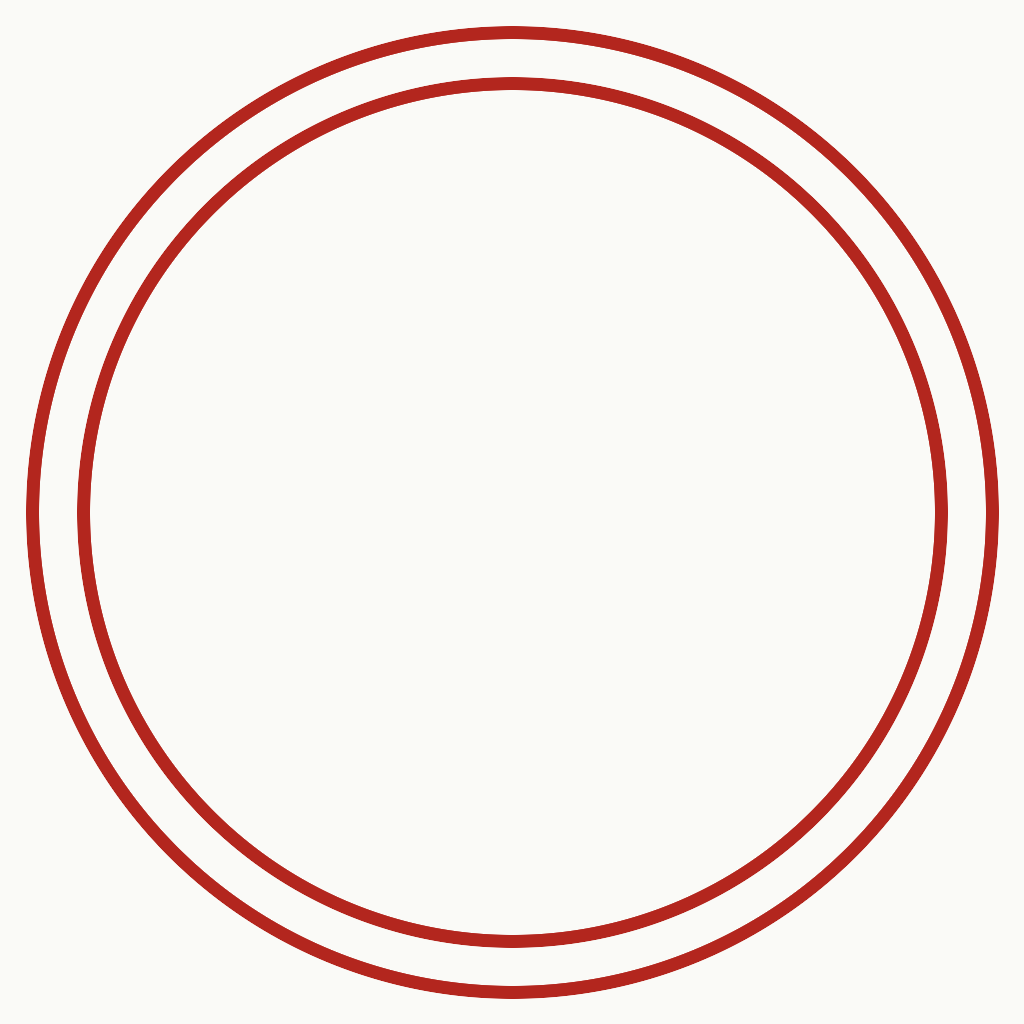
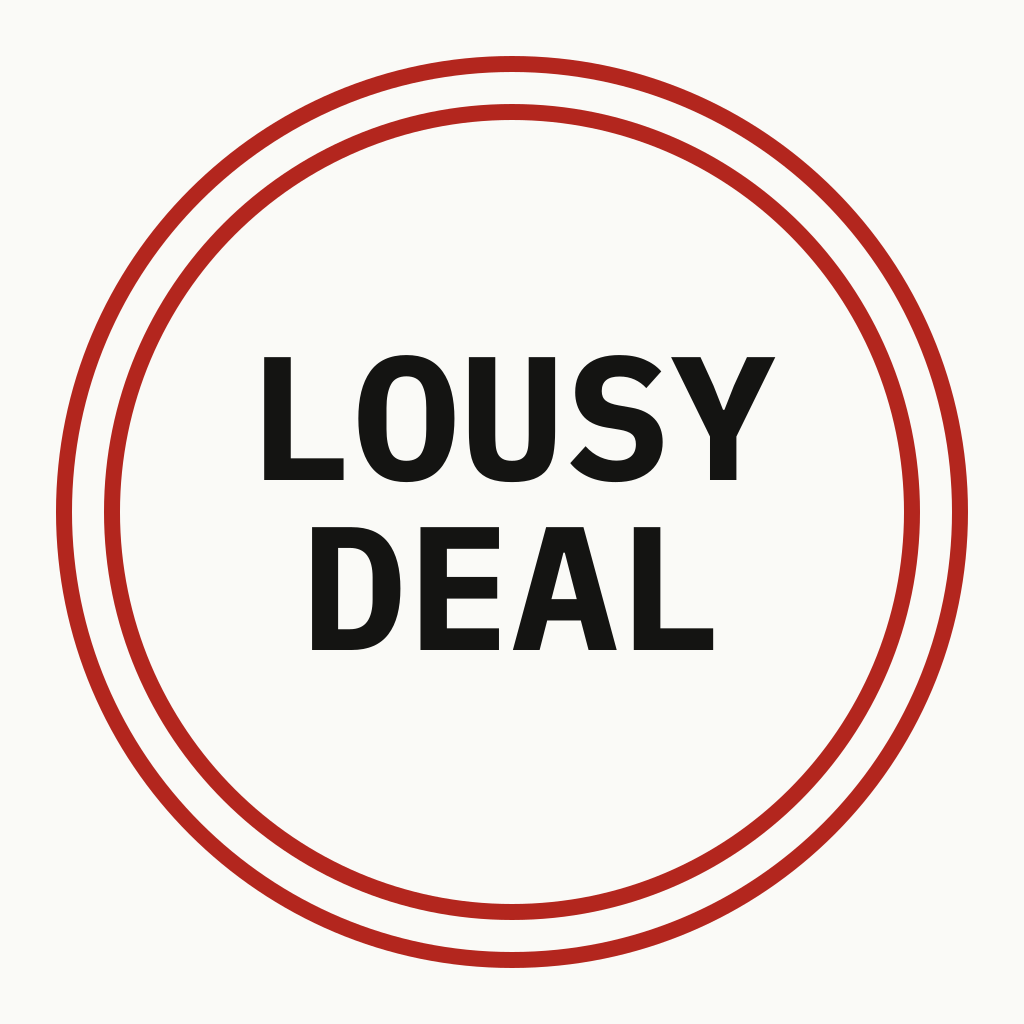
fix: identify social profile mark

Changed region(s): [[0.0, 0.0, 1.0, 1.0], [0.2812, 0.5, 0.7188, 0.6562], [0.25, 0.3438, 0.75, 0.4688]]

diff --git a/docs/working/status.md b/docs/working/status.md
@@ -8,9 +8,9 @@ does not — it points, it does not hold.
 | | |
 | --- | --- |
 | Updated | 2026-09-11 |
-| Current slice | **LD-08 preparation in flight.** The social media kit and closed-store requirement are being added |
-| In flight | `deal/ld08-social-kit` in `lousydeal`; no change in `deploys` or `orange` |
-| Next action | Merge the preparation pull request. Then plan **LD-08 — Launch polish** in `docs/working/` and include Printful billing information in its production-readiness work |
+| Current slice | **none in flight.** LD-08 preparation completed 2026-09-11 |
+| In flight | nothing. No open pull request in `lousydeal`, `deploys` or `orange`; no active worktree |
+| Next action | Plan **LD-08 — Launch polish** in `docs/working/`, then execute it. Include the missing Printful billing information and the `STORE_OPEN` launch gate in its production-readiness work |
 | Blocked | nothing |
 
 Nothing in this file is a secret. No credential value, no live private hostname,

diff --git a/social/README.md b/social/README.md
@@ -1,8 +1,7 @@
 # Social media kit
 
 This directory contains the shared Lousy Deal account identity. Use the PNG
-files for uploads. Keep the SVG files as editable masters. The profile master
-is the existing [`icon.svg`](../storefront/src/app/icon.svg).
+files for uploads. Keep the SVG files as editable masters.
 
 | Service | Profile image | Cover or post image |
 | --- | --- | --- |
@@ -47,7 +46,8 @@ accept a system font fallback.
 
 Use this description for `profile.png`:
 
-> A red double-ring receipt stamp on an off-white paper background.
+> A red double-ring receipt stamp containing the words Lousy Deal on an
+> off-white paper background.
 
 Use this description for the cover and card images:
 
